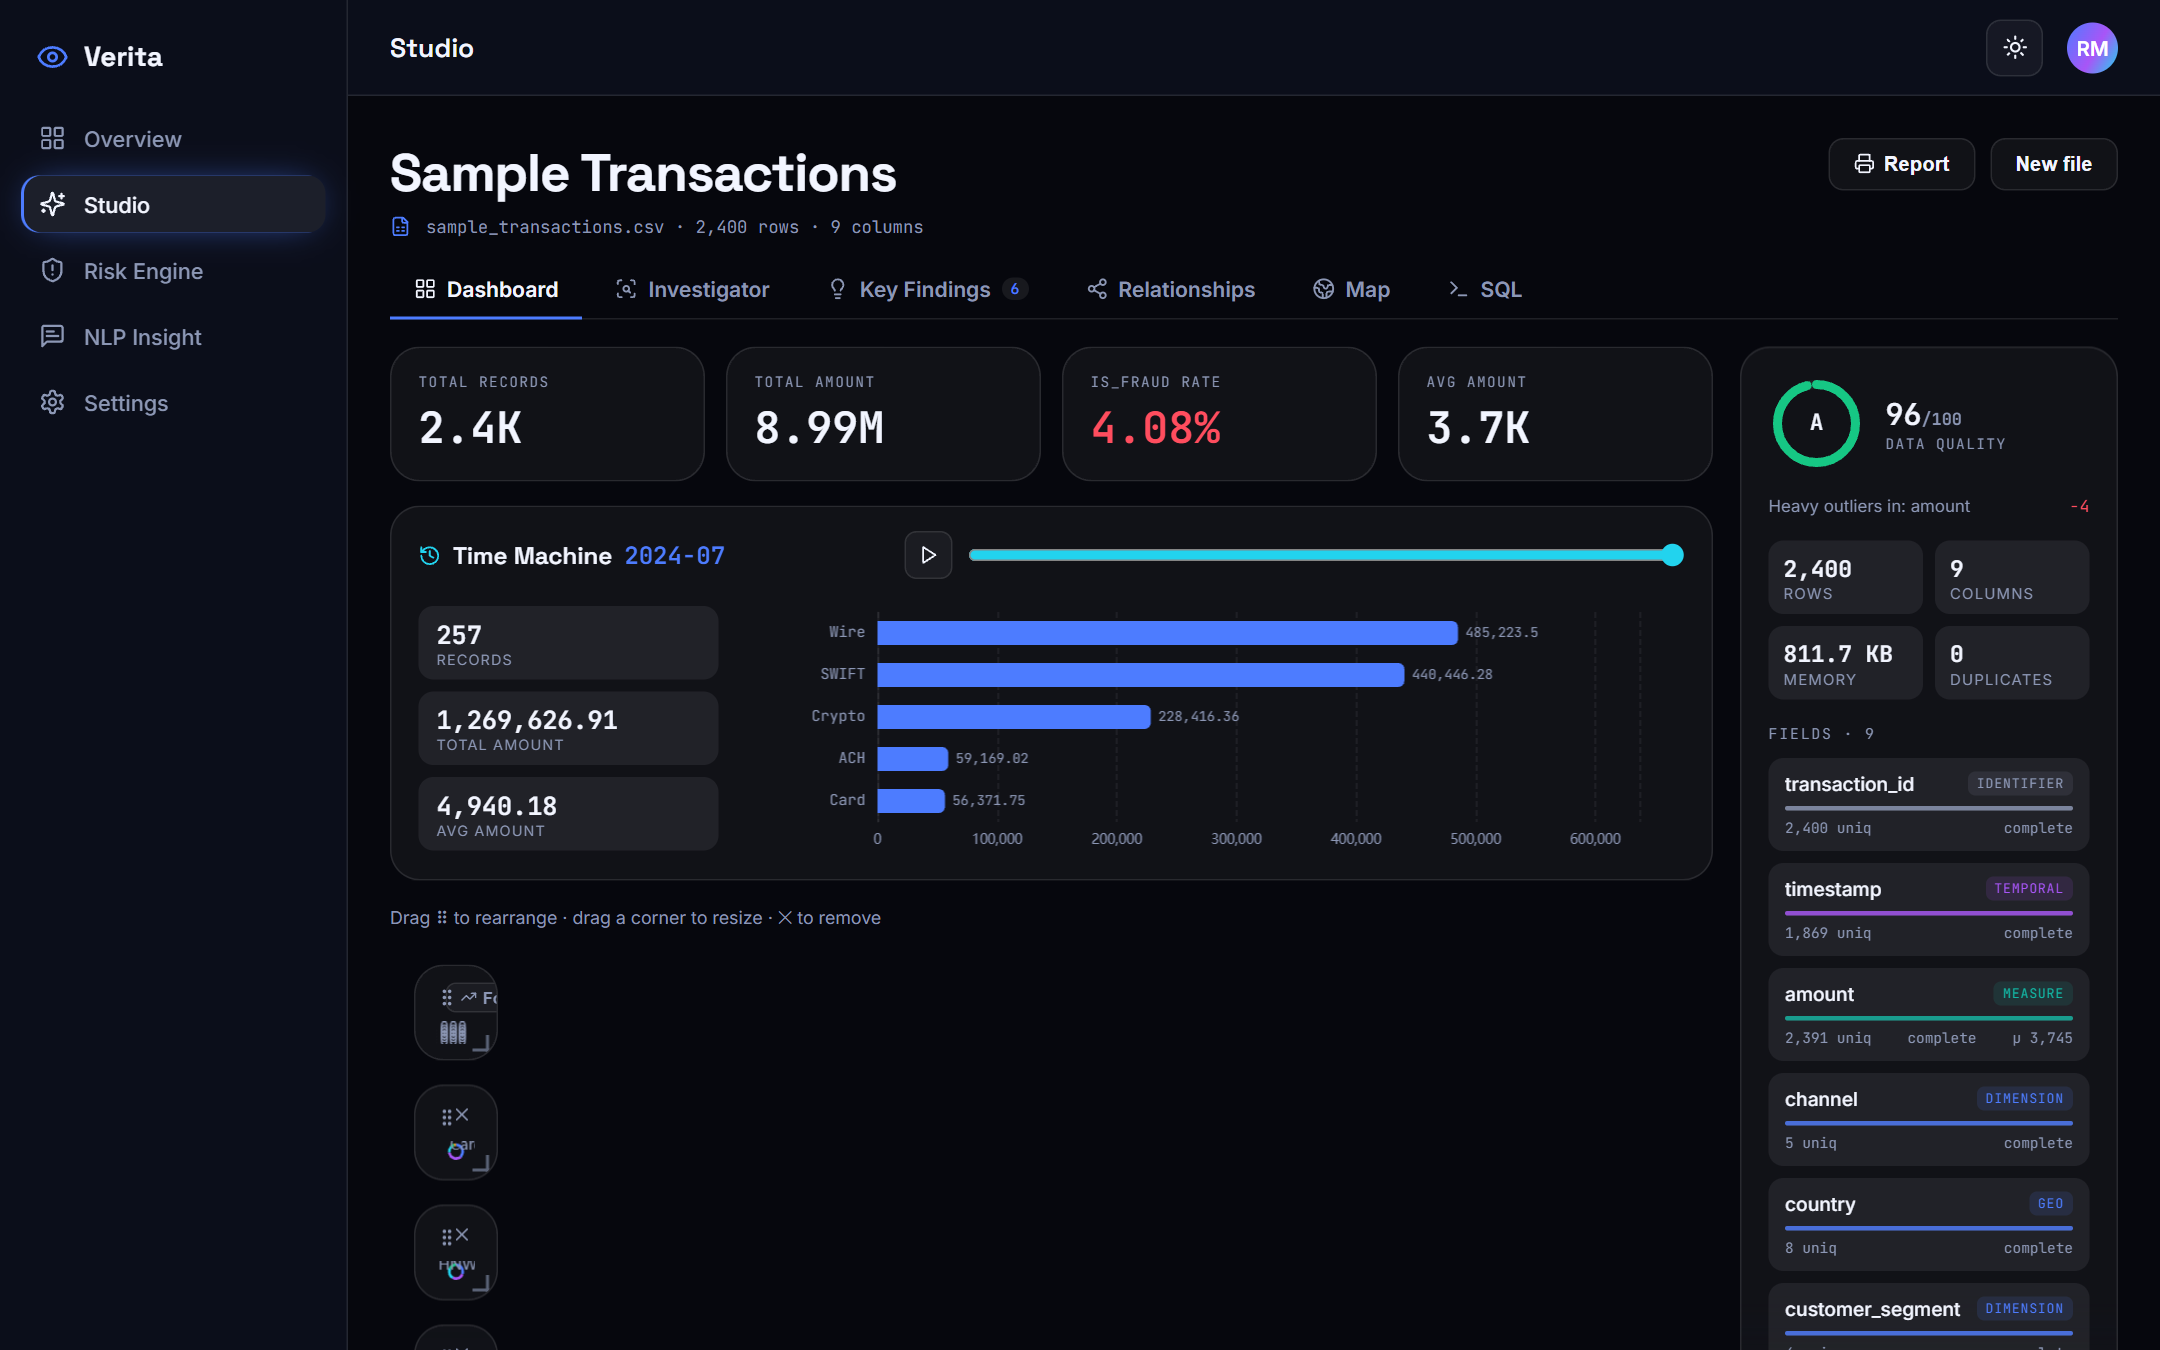
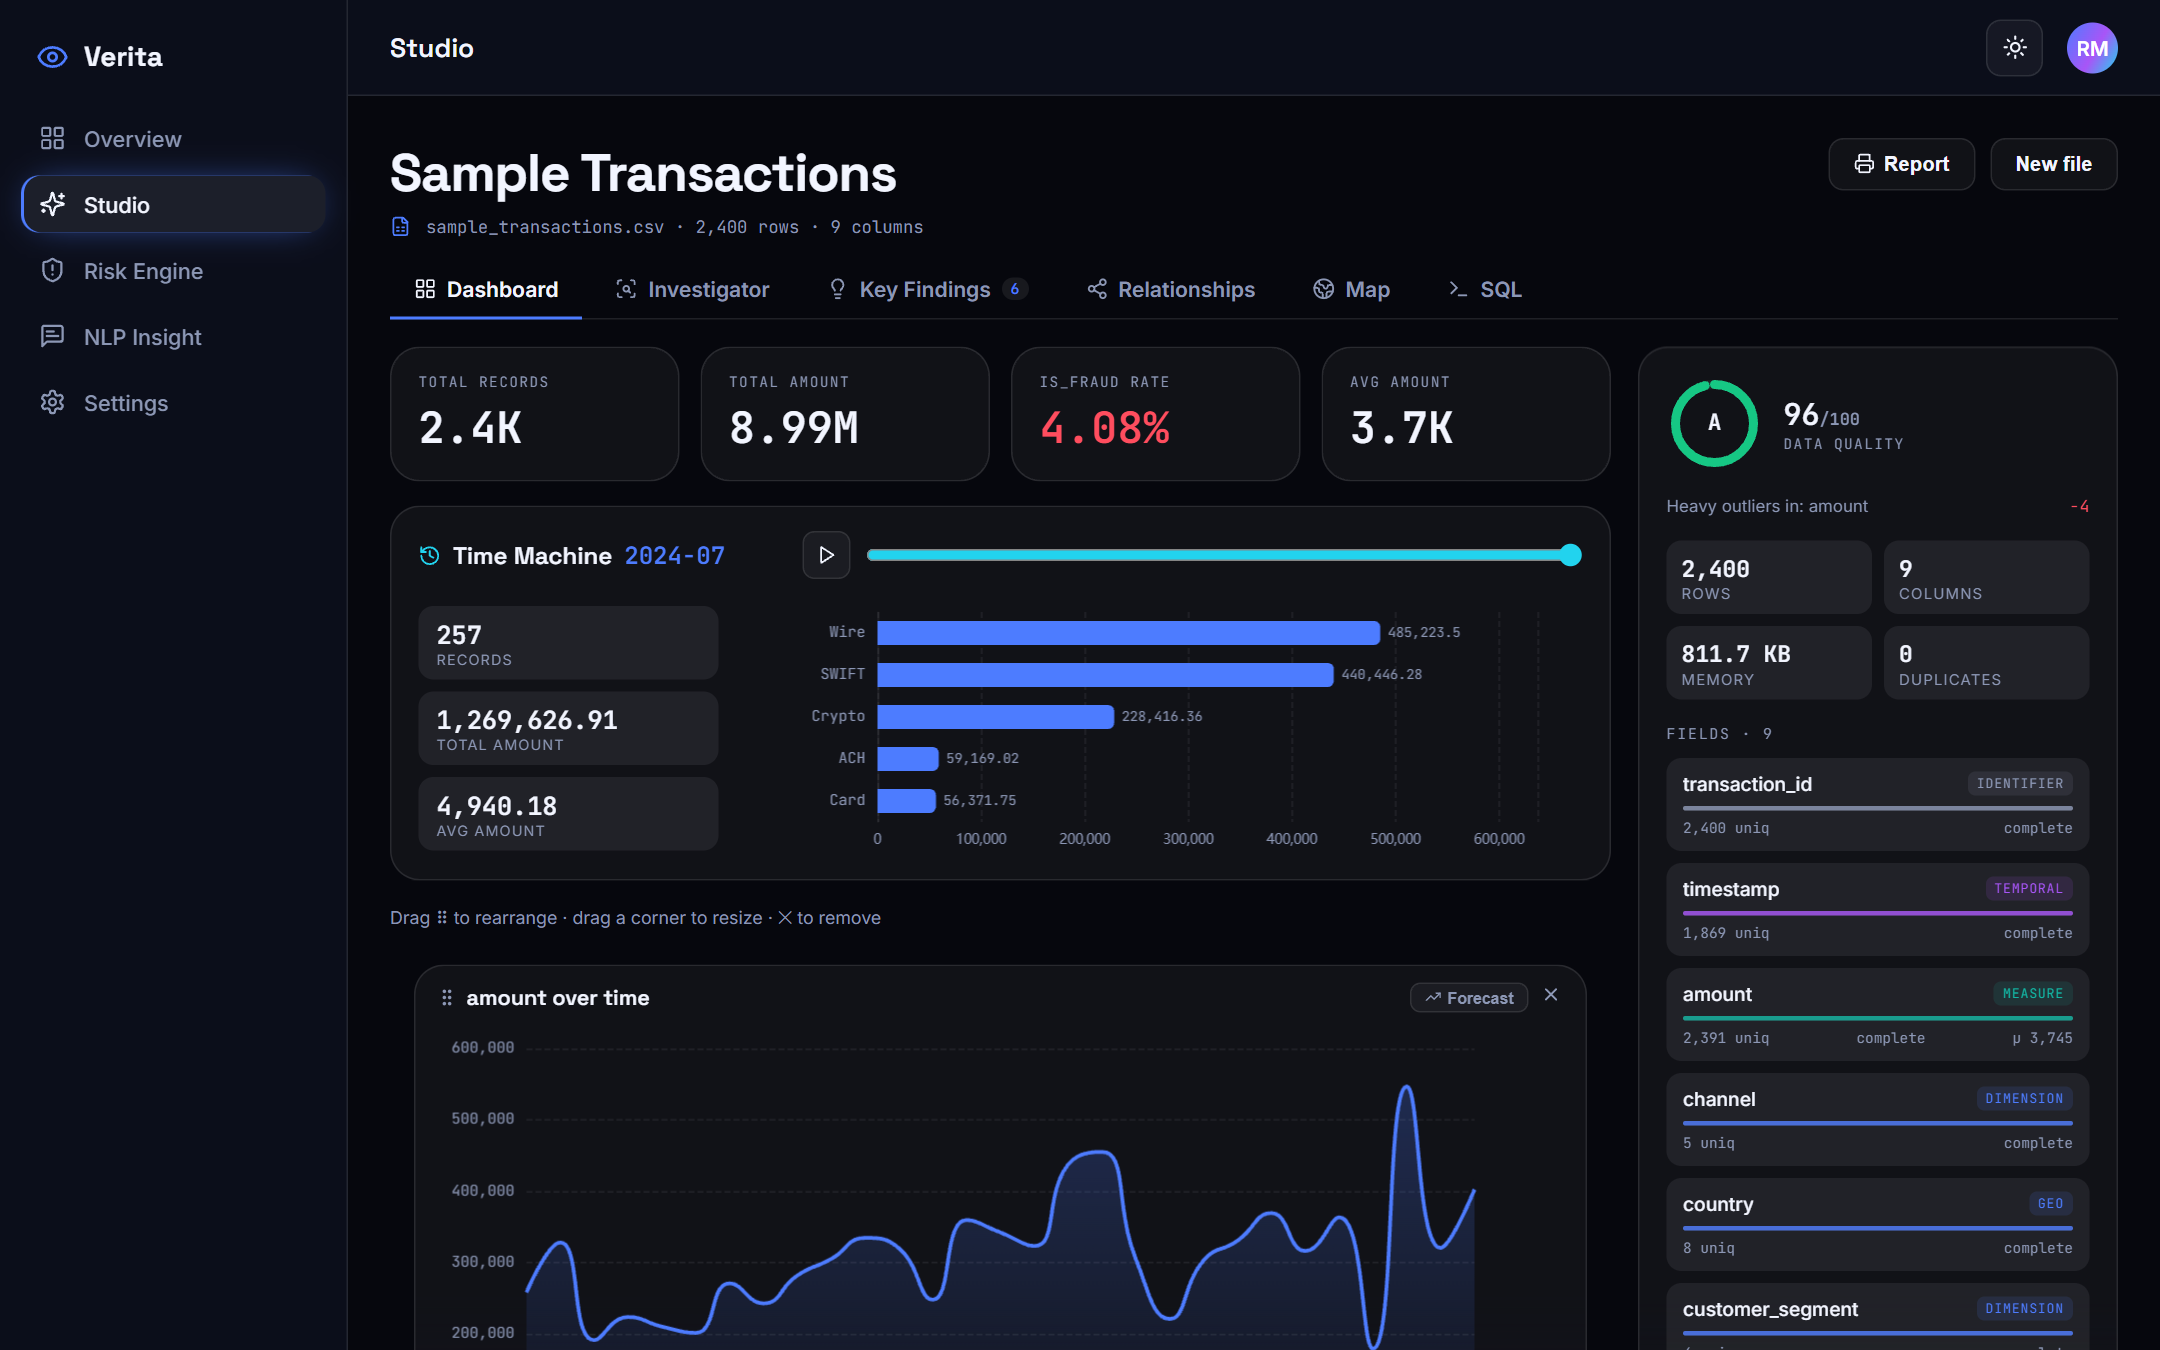
fix: dashboard panels collapsing to ~30px (RGL width measurement)
Replaced react-grid-layout's WidthProvider (which latched onto a near-zero container width during the scan->reveal transition and never recovered) with an explicit ResizeObserver that feeds RGL a measured width. Also made the dashboard responsive: flex-wrap so the Profile rail drops below the grid on narrow screens instead of crushing it. Verified at 760px (items 440/212/136) and 1380px (712/348/227) - span-proportional and reflowing. Screenshots refreshed.

diff --git a/frontend/src/pages/Studio.tsx b/frontend/src/pages/Studio.tsx
@@ -1,7 +1,7 @@
 import { useCallback, useEffect, useMemo, useRef, useState } from "react";
 import { motion, AnimatePresence } from "framer-motion";
 import { UploadCloud, FileSpreadsheet, Loader2, GripVertical, X, LayoutGrid, Lightbulb, Share2, Terminal, Globe2, Printer, TrendingUp, ScanSearch } from "lucide-react";
-import RGL, { WidthProvider, type Layout } from "react-grid-layout";
+import RGL, { type Layout } from "react-grid-layout";
 import "react-grid-layout/css/styles.css";
 import "react-resizable/css/styles.css";
 import { API_BASE } from "../config";
@@ -17,7 +17,6 @@ import GeoMap from "../components/studio/GeoMap";
 import WhatChanged from "../components/studio/WhatChanged";
 import TimeMachine from "../components/studio/TimeMachine";
 
-const GridLayout = WidthProvider(RGL);
 
 const SPAN: Record<string, number> = { line: 12, heatmap: 6, bar: 6, pie: 4, histogram: 6 };
 
@@ -209,6 +208,24 @@ export default function Studio() {
   }, [result]);
   const availableTabs = useMemo(() => TABS.filter((t) => t.id !== "map" || !!geoChart), [geoChart]);
 
+  // Measure the grid container ourselves (a ResizeObserver) and feed RGL an explicit width.
+  // WidthProvider's auto-measurement latches onto a near-zero width during the scan transition
+  // and never recovers; this is deterministic and survives responsive reflow.
+  const gridContainerRef = useRef<HTMLDivElement>(null);
+  const [gridWidth, setGridWidth] = useState(0);
+  useEffect(() => {
+    const el = gridContainerRef.current;
+    if (!el) return;
+    const update = () => {
+      const w = el.getBoundingClientRect().width;
+      if (w > 0) setGridWidth(w);
+    };
+    update();
+    const ro = new ResizeObserver(update);
+    ro.observe(el);
+    return () => ro.disconnect();
+  }, [phase, tab, visibleCharts.length]);
+
   /* ── upload / scanning states ── */
   if (phase !== "ready") {
     return (
@@ -295,8 +312,8 @@ export default function Studio() {
 
       {/* Tab content */}
       {tab === "dashboard" && (
-        <div style={{ display: "grid", gridTemplateColumns: "1fr 252px", gap: 18, alignItems: "start" }}>
-          <div>
+        <div style={{ display: "flex", flexWrap: "wrap", gap: 18, alignItems: "flex-start" }}>
+          <div style={{ flex: "1 1 540px", minWidth: 0 }}>
             {/* KPI row */}
             <div style={{ display: "grid", gridTemplateColumns: "repeat(auto-fit, minmax(170px, 1fr))", gap: 14, marginBottom: 16 }}>
               {kpis.map((k, i) => (
@@ -312,7 +329,9 @@ export default function Studio() {
             <div style={{ fontSize: "0.74rem", color: "var(--text-muted)", marginBottom: 8 }}>
               Drag ⠿ to rearrange · drag a corner to resize · ✕ to remove
             </div>
-            <GridLayout className="layout" layout={gridLayout} onLayoutChange={setGridLayout} cols={12} rowHeight={64} margin={[16, 16]} draggableHandle=".drag-handle" isBounded>
+            <div ref={gridContainerRef}>
+            {gridWidth > 0 && (
+            <RGL className="layout" width={gridWidth} layout={gridLayout} onLayoutChange={setGridLayout} cols={12} rowHeight={64} margin={[16, 16]} draggableHandle=".drag-handle" isBounded>
               {visibleCharts.map((c) => {
                 const isLine = c.chart_type === "line";
                 const showForecast = isLine && forecast.activeId === c.id && forecast.data;
@@ -353,10 +372,14 @@ export default function Studio() {
                   </div>
                 );
               })}
-            </GridLayout>
+            </RGL>
+            )}
+            </div>
           </div>
 
-          <ProfileRail profile={r.profile} quality={r.quality} />
+          <div style={{ flex: "1 1 240px", maxWidth: 320, minWidth: 220 }}>
+            <ProfileRail profile={r.profile} quality={r.quality} />
+          </div>
         </div>
       )}
 
